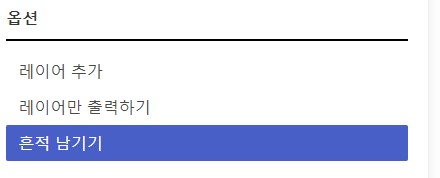
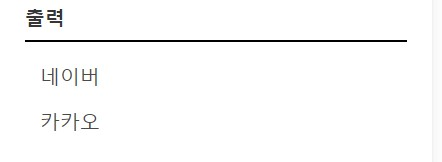
test

diff --git a/preview/manual/4/index.html b/preview/manual/4/index.html
@@ -48,65 +48,54 @@
 
     </nav>
     <div class="container is-fluid">
-
-
         <div class="container is-fluid tabs mt-5">
             <ul>
                 <li><a href="../1/index.html">좌표 탐색</a></li>
                 <li><a href="../2/index.html">반경</a></li>
                 <li><a href="../3/index.html">지도 종류</a></li>
-                <li class="is-active"><a href="../4/index.html">옵션</a></li>
-                <li><a href="../5/index.html">수집</a></li>
+                <li class="is-active"><a href="../4/index.html">출력</a></li>
+                <li><a href="../5/index.html">옵션</a></li>
+                <li><a href="../6/index.html">수집</a></li>
             </ul>
         </div>
 
         <div class="container is-fluid card">
+
             <div class="column is-half">
+
                 <div class="media-content mt-5">
-                    <p class="title is-5">옵션</p>
-                    <p>부가적인 설정 창입니다.</p>
-                    <p>흔적 남기기는 기본으로 설정됩니다.</p>
+                    <p class="title is-5">출력</p>
+                    <p>출력될 지도의 종류입니다.</p>
                 </div>
+    
             </div>
 
-            <div class="card-image columns mt-5">
+            <div class="card-image columns columns mt-5">
                 <figure class="image is-256x256 column is-half">
                     <img src="1.jpg">
-                    <div class="media-content mt-5">
-
-                    </div>
 
                 </figure>
-
-                <div class="column">
-                    <div class="media-content mt-5">
-                        <p class="subtitle is-5">레이어 추가</p>
-                        <p>다양한 레이어들을 추가합니다.</p>
-                        <p>기본적으로 선택한 지도 위에 겹쳐져 출력됩니다.</p>
+                    <div class="column">
+                        <div class="media-content mt-5">
+                            <p class="subtitle is-5">네이버</p>
+                            <p>출력 결과물이 네이버 지도를 통해서 생성됩니다.</p>
+                        </div>
+    
+                        
+                        <div class="media-content mt-5">
+                            <p class="subtitle is-5">카카오</p>
+                            <p>출력 결과물이 카카오 지도를 통해서 생성됩니다.</p>
+                        </div>
+    
                     </div>
 
-
-                    <div class="media-content mt-5">
-                        <p class="subtitle is-5">레이어만 출력하기</p>
-                        <p>선택한 레이어만 출력합니다.</p>
-                        <p>기본 지도 위에 겹쳐져서 출력되지 않습니다.</p>
-                        <p>PNG, JPG 선택이 가능합니다.</p>
-                    </div>
-
-
-                    <div class="media-content mt-5">
-                        <p class="subtitle is-5">흔적 남기기</p>
-                        <p>수집한 위치에 표시를 남깁니다.</p>
-                    </div>
-
-                </div>
             </div>
             <div class="card-content">
 
                 <div class="content">
-
+                   
                 </div>
-
+               
             </div>
         </div>
 

diff --git a/preview/manual/6/index.html b/preview/manual/6/index.html
@@ -48,63 +48,35 @@
 
     </nav>
     <div class="container is-fluid">
+
+
         <div class="container is-fluid tabs mt-5">
             <ul>
                 <li><a href="../1/index.html">좌표 탐색</a></li>
                 <li><a href="../2/index.html">반경</a></li>
-                <li class="is-active"><a href="../3/index.html">지도 종류</a></li>
+                <li><a href="../3/index.html">지도 종류</a></li>
                 <li><a href="../4/index.html">출력</a></li>
                 <li><a href="../5/index.html">옵션</a></li>
-                <li><a href="../6/index.html">수집</a></li>
+                <li class="is-active"><a href="../6/index.html">수집</a></li>
             </ul>
         </div>
 
         <div class="container is-fluid card">
-
             <div class="column is-half">
-
                 <div class="media-content mt-5">
-                    <p class="title is-5">지도 종류</p>
-                    <p>수집될 지도의 종류입니다.</p>
-                    <p>기본값은 위성으로 설정됩니다.</p>
+                    <p class="title is-5">수집</p>
+                    <p>결과물 출력 창입니다.</p>
                 </div>
-    
             </div>
 
-            <div class="card-image columns columns mt-5">
-                <figure class="image is-256x256 column is-half">
-                    <img src="1.jpg">
-
-                </figure>
-                    <div class="column">
-                        <div class="media-content mt-5">
-                            <p class="subtitle is-5">일반</p>
-                            <p>일반 지도로 설정됩니다.</p>
-                        </div>
-    
-                        
-                        <div class="media-content mt-5">
-                            <p class="subtitle is-5">위성</p>
-                            <p>위성 지도로 설정됩니다.</p>
-                            <p>위치나 지물 명칭이 나오지 않습니다.</p>
-                        </div>
-    
-                        
-                        <div class="media-content mt-5">
-                            <p class="subtitle is-5">하이브리드</p>
-                            <p>위성 지도로 설정됩니다.</p>
-                            <p>위치와 지물 명칭들이 나옵니다.</p>
-                        </div>
-    
-                    </div>
-
-            </div>
             <div class="card-content">
 
                 <div class="content">
-                   
+                    <p>작업 시작 버튼을 누르면 설정된 값들을 토대로 사진을 수집합니다.</p>
+                    <p>진행 상황은 progressBar와 텍스트로 출력됩니다.</p>
+                    <p>작업이 완료되면 ie는 파일 저장 메뉴가 뜨고, 그 외 브라우저는 mapshot_result 링크가 생성됩니다.</p>
                 </div>
-               
+
             </div>
         </div>
 

diff --git a/preview/manual/5/index.html b/preview/manual/5/index.html
@@ -55,25 +55,42 @@
                 <li><a href="../1/index.html">좌표 탐색</a></li>
                 <li><a href="../2/index.html">반경</a></li>
                 <li><a href="../3/index.html">지도 종류</a></li>
-                <li><a href="../4/index.html">옵션</a></li>
-                <li class="is-active"><a href="../5/index.html">수집</a></li>
+                <li><a href="../4/index.html">출력</a></li>
+                <li class="is-active"><a href="../5/index.html">옵션</a></li>
+                <li><a href="../6/index.html">수집</a></li>
             </ul>
         </div>
 
         <div class="container is-fluid card">
             <div class="column is-half">
                 <div class="media-content mt-5">
-                    <p class="title is-5">수집</p>
-                    <p>결과물 출력 창입니다.</p>
+                    <p class="title is-5">옵션</p>
+                    <p>부가적인 설정 창입니다.</p>
+                    <p>흔적 남기기는 기본으로 설정됩니다.</p>
                 </div>
             </div>
 
+            <div class="card-image columns mt-5">
+                <figure class="image is-256x256 column is-half">
+                    <img src="1.jpg">
+                    <div class="media-content mt-5">
+
+                    </div>
+
+                </figure>
+
+                <div class="column">
+                    <div class="media-content mt-5">
+                        <p class="subtitle is-5">흔적 남기기</p>
+                        <p>수집한 위치에 표시를 남깁니다.</p>
+                    </div>
+
+                </div>
+            </div>
             <div class="card-content">
 
                 <div class="content">
-                    <p>작업 시작 버튼을 누르면 설정된 값들을 토대로 사진을 수집합니다.</p>
-                    <p>진행 상황은 progressBar와 텍스트로 출력됩니다.</p>
-                    <p>작업이 완료되면 ie는 파일 저장 메뉴가 뜨고, 그 외 브라우저는 mapshot_result 링크가 생성됩니다.</p>
+
                 </div>
 
             </div>

diff --git a/preview/manual/2/index.html b/preview/manual/2/index.html
@@ -55,8 +55,9 @@
                 <li><a href="../1/index.html">좌표 탐색</a></li>
                 <li class="is-active"><a href="../2/index.html">반경</a></li>
                 <li><a href="../3/index.html">지도 종류</a></li>
-                <li><a href="../4/index.html">옵션</a></li>
-                <li><a href="../5/index.html">수집</a></li>
+                <li><a href="../4/index.html">출력</a></li>
+                <li><a href="../5/index.html">옵션</a></li>
+                <li><a href="../6/index.html">수집</a></li>
             </ul>
         </div>
 
@@ -67,6 +68,7 @@
                     <p class="title is-5">반경 설정</p>
                     <p>지도가 수집될 범위의 반경입니다.</p>
                     <p>기본값은 10km로 설정됩니다.</p>
+                    <p>이 값은 <strong>네이버</strong> 기준입니다. 카카오는 정확한 추정이 어렵습니다.</p>
                 </div>
     
             </div>

diff --git a/preview/log/index.html b/preview/log/index.html
@@ -57,7 +57,7 @@
     </p>
 
     <ul class="menu-list">
-      <li><a>로고</a></li>
+      <li><a>네이버 로고</a></li>
       <li>
         <ul>
           <li><a>타일마다 로고가 표시되지 않고, 좌측 하단에 한 번 표기됩니다.</a></li>
@@ -68,6 +68,20 @@
       <li>
         <ul>
           <li><a>지도 우클릭 시 캡쳐 영역 미리보기가 제거됩니다.</a></li>
+        </ul>
+      </li>
+
+      <li><a>출력 선택 추가</a></li>
+      <li>
+        <ul>
+          <li><a>카카오 혹은 네이버로 출력이 선택 가능하게 되었습니다.</a></li>
+        </ul>
+      </li>
+
+      <li><a>레이어 옵션 제거</a></li>
+      <li>
+        <ul>
+          <li><a>서비스 운영비가 너무 많이 발생하여 부득이하게 종료하게 되었습니다. 양해 부탁드립니다.</a></li>
         </ul>
       </li>
     </ul>

diff --git a/preview/manual/1/index.html b/preview/manual/1/index.html
@@ -55,8 +55,9 @@
                 <li class="is-active"><a href="../1/index.html">좌표 탐색</a></li>
                 <li><a href="../2/index.html">반경</a></li>
                 <li><a href="../3/index.html">지도 종류</a></li>
-                <li><a href="../4/index.html">옵션</a></li>
-                <li><a href="../5/index.html">수집</a></li>
+                <li><a href="../4/index.html">출력</a></li>
+                <li><a href="../5/index.html">옵션</a></li>
+                <li><a href="../6/index.html">수집</a></li>
             </ul>
         </div>
 

diff --git a/preview/opensource/index.html b/preview/opensource/index.html
@@ -67,14 +67,6 @@
                 <li><a href="https://apis.map.kakao.com/">homepage</a></li>
               </ul>
             </li>
-
-            <li><a>Vworld Open API</a></li>
-            <li>
-              <ul>
-                <li><a href="https://www.vworld.kr/v4po_prcint_a001.do">license & policy</a></li>
-                <li><a href="https://www.vworld.kr/dev/v4api.do">homepage</a></li>
-              </ul>
-            </li>
         </ul>
       </div>
 
